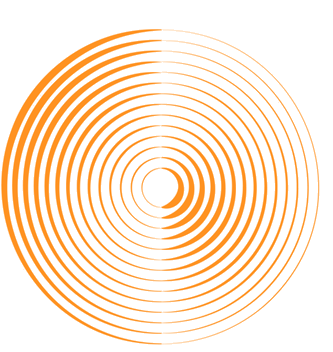
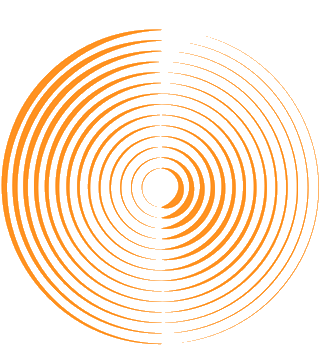
Fix circle backgrounds (aggressive alpha), spin-slow animation, fix FAQ overlap
- Re-run PNG transparency fix with alpha<=80 threshold to fully remove background wash
- Change all decoration animations to spin-slow (circular motion)
- FAQ page: reduce to 2 non-overlapping circles positioned at opposite corners

diff --git a/src/app/faq/page.tsx b/src/app/faq/page.tsx
@@ -15,17 +15,11 @@ export default function FAQPage() {
       {/* Section 1 FAQ accordion (bg) */}
       <div className="relative">
         {/* 4 sunburst circles on the left in different sizes */}
-        <div className="hidden lg:block absolute left-[-60px] top-[5%] pointer-events-none z-[1]" aria-hidden="true">
-          <DecorativeCircle design="sunburst" color="orange" size={400} animation="wobble" opacity={0.7} />
+        <div className="hidden lg:block absolute left-[-80px] top-[-60px] pointer-events-none z-[1]" aria-hidden="true">
+          <DecorativeCircle design="sunburst" color="orange" size={350} animation="spin-slow" opacity={0.7} />
         </div>
-        <div className="hidden lg:block absolute left-[30px] top-[35%] pointer-events-none z-[1]" aria-hidden="true">
-          <DecorativeCircle design="sunburst" color="teal" size={280} animation="float" opacity={0.7} />
-        </div>
-        <div className="hidden lg:block absolute left-[-40px] top-[60%] pointer-events-none z-[1]" aria-hidden="true">
-          <DecorativeCircle design="sunburst" color="orange" size={320} animation="drift-diagonal" opacity={0.7} />
-        </div>
-        <div className="hidden lg:block absolute left-[10px] top-[82%] pointer-events-none z-[1]" aria-hidden="true">
-          <DecorativeCircle design="sunburst" color="teal" size={250} animation="pulse-gentle" opacity={0.7} />
+        <div className="hidden lg:block absolute right-[-80px] bottom-[-60px] pointer-events-none z-[1]" aria-hidden="true">
+          <DecorativeCircle design="sunburst" color="teal" size={300} animation="spin-slow" opacity={0.7} />
         </div>
         <div className="relative">
           <Section background="bg">

diff --git a/src/app/services/organizations/page.tsx b/src/app/services/organizations/page.tsx
@@ -84,7 +84,7 @@ export default function OrganizationsPage() {
       {/* Section 3 Service cards (bg) */}
       <ScrollReveal>
       <div className="relative">
-        <DecorativeCircle className="absolute hidden lg:block z-[1] right-[-40px] top-[30%]" design="diagonal-lines" color="orange" size={320} animation="drift-diagonal" opacity={0.7} />
+        <DecorativeCircle className="absolute hidden lg:block z-[1] right-[-40px] top-[30%]" design="diagonal-lines" color="orange" size={320} animation="spin-slow" opacity={0.7} />
         <div className="relative">
           <Section background="bg">
             <h2 className="font-heading text-[1.875rem] font-bold leading-[1.3] text-text mb-xl section-heading-accent">
@@ -126,7 +126,7 @@ export default function OrganizationsPage() {
       {/* Section 4 Lectures (subtle-bg) */}
       <ScrollReveal>
       <div className="relative">
-        <DecorativeCircle className="absolute hidden lg:block z-[1] left-[-50px] top-[20%]" design="diagonal-lines" color="teal" size={400} animation="drift-diagonal" opacity={0.7} />
+        <DecorativeCircle className="absolute hidden lg:block z-[1] left-[-50px] top-[20%]" design="diagonal-lines" color="teal" size={400} animation="spin-slow" opacity={0.7} />
         <div className="relative">
           <Section background="subtle-bg">
             <h2 className="font-heading text-[1.875rem] font-bold leading-[1.3] text-text mb-md section-heading-accent">

diff --git a/src/app/workshops/page.tsx b/src/app/workshops/page.tsx
@@ -37,7 +37,7 @@ export default function WorkshopsPage() {
       {/* Section 2 Three info cards (subtle-bg) */}
       <ScrollReveal>
       <div className="relative">
-        <DecorativeCircle className="absolute hidden lg:block z-[1] left-[-30px] top-[-20px]" design="swirl-arcs" color="orange" size={420} animation="wobble" opacity={0.7} />
+        <DecorativeCircle className="absolute hidden lg:block z-[1] left-[-30px] top-[-20px]" design="swirl-arcs" color="orange" size={420} animation="spin-slow" opacity={0.7} />
         <div className="relative">
           <Section background="subtle-bg">
             <div className="grid grid-cols-1 md:grid-cols-3 gap-lg">
@@ -93,7 +93,7 @@ export default function WorkshopsPage() {
       {/* Section 3 Lectures (bg) */}
       <ScrollReveal>
       <div className="relative">
-        <DecorativeCircle className="absolute hidden lg:block z-[1] right-[-100px] bottom-[-80px]" design="spirograph" color="teal" size={380} animation="pulse-gentle" opacity={0.7} />
+        <DecorativeCircle className="absolute hidden lg:block z-[1] right-[-100px] bottom-[-80px]" design="spirograph" color="teal" size={380} animation="spin-slow" opacity={0.7} />
         <div className="relative">
           <Section background="bg">
             <h2 className="font-heading text-[1.875rem] font-bold leading-[1.3] text-text mb-md section-heading-accent">

diff --git a/src/app/page.tsx b/src/app/page.tsx
@@ -23,7 +23,7 @@ export default function HomePage() {
           design="split-rings"
           color="orange"
           size={420}
-          animation="float"
+          animation="spin-slow"
           opacity={0.7}
           className="absolute hidden lg:block z-[1] left-[-120px] bottom-[-80px]"
         />
@@ -46,7 +46,7 @@ export default function HomePage() {
           design="sunburst"
           color="teal"
           size={300}
-          animation="drift"
+          animation="spin-slow"
           opacity={0.7}
           className="absolute hidden lg:block z-[1] right-[-60px] top-[-40px]"
         />
@@ -66,7 +66,7 @@ export default function HomePage() {
           design="swirl-arcs"
           color="orange"
           size={450}
-          animation="pulse-gentle"
+          animation="spin-slow"
           opacity={0.7}
           className="absolute hidden lg:block z-[1] left-[-100px] top-1/2 -translate-y-1/2"
         />

diff --git a/src/app/contact/page.tsx b/src/app/contact/page.tsx
@@ -26,13 +26,13 @@ export default function ContactPage() {
           className="hidden lg:block absolute right-[-40px] top-[15%] pointer-events-none z-[1]"
           aria-hidden="true"
         >
-          <DecorativeCircle design="dots-dense" color="teal" size={380} animation="drift" opacity={0.7} />
+          <DecorativeCircle design="dots-dense" color="teal" size={380} animation="spin-slow" opacity={0.7} />
         </div>
         <div
           className="hidden lg:block absolute left-[-30px] bottom-[5%] pointer-events-none z-[1]"
           aria-hidden="true"
         >
-          <DecorativeCircle design="diagonal-lines" color="orange" size={320} animation="wobble" opacity={0.7} />
+          <DecorativeCircle design="diagonal-lines" color="orange" size={320} animation="spin-slow" opacity={0.7} />
         </div>
 
         <div className="relative">

diff --git a/src/app/about/page.tsx b/src/app/about/page.tsx
@@ -29,7 +29,7 @@ export default function AboutPage() {
       <div className="relative">
         {/* Legacy decorative orange half-circle accent — DO NOT MODIFY */}
         <div
-          className="hidden lg:block absolute left-[-80px] top-1/2 -translate-y-1/2 w-[550px] h-[550px] pointer-events-none opacity-[0.7] z-[1] animate-[float_8s_ease-in-out_infinite]"
+          className="hidden lg:block absolute left-[-80px] top-1/2 -translate-y-1/2 w-[550px] h-[550px] pointer-events-none opacity-[0.7] z-[1] animate-[spin-slow_45s_linear_infinite]"
           aria-hidden="true"
         >
           <Image
